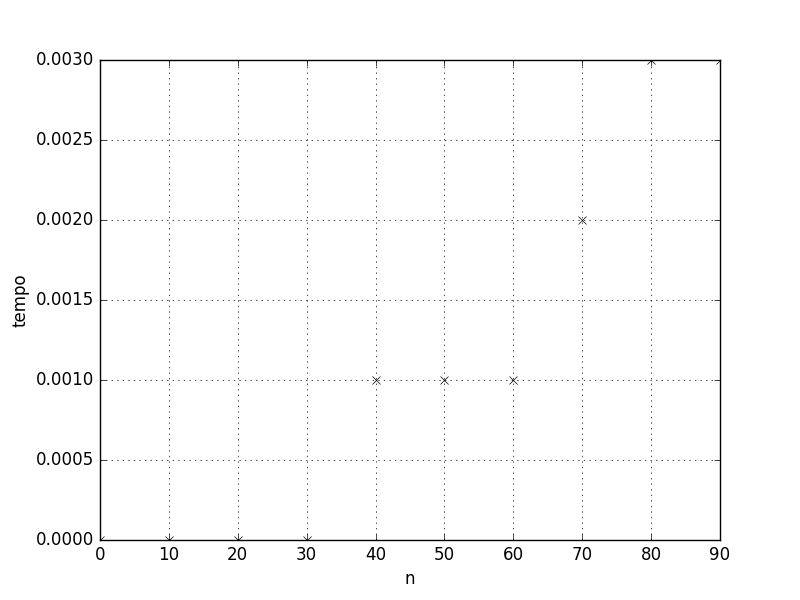
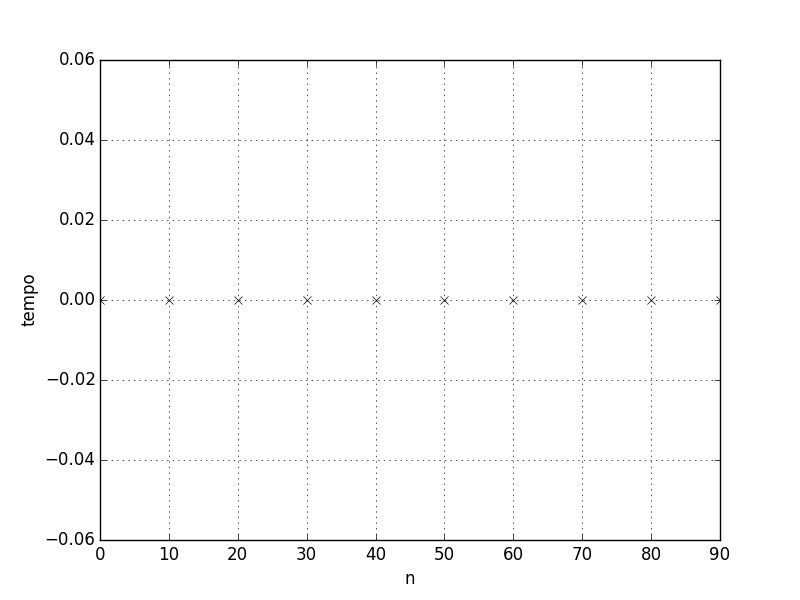
mudando funcao grafoCompleto() em Auxiliares.h

diff --git a/grafo_lista_adjacencia/main.cpp b/grafo_lista_adjacencia/main.cpp
@@ -207,7 +207,7 @@ void vizinhancaAberta(){
     int id;
     cout<<"Digite o id do no para verificar vizinhanca aberta: ";
     cin>>id;
-    vector<No*> nos = G->vizinhancaAberta(id, false);///ver pq nao da pra usar o default nessa caralha
+    vector<No*> nos = G->vizinhancaAberta(id);///ver pq nao da pra usar o default nessa caralha
 
     imprimeVizinhanca(nos);
 }
@@ -217,7 +217,7 @@ void vizinhancaFechada(){
     int id;
     cout<<"Digite o id do no para verificar vizinhanca fechada: ";
     cin>>id;
-    vector<No*> nos = G->vizinhancaFechada(id, true);///ver pq nao da pra usar o default nessa caralha
+    vector<No*> nos = G->vizinhancaFechada(id);///ver pq nao da pra usar o default nessa caralha
 
     imprimeVizinhanca(nos);
 }
@@ -307,23 +307,28 @@ u_int arvoreGeradoraMinima(u_int n){
 }
 
 u_int testarKruskal(u_int n){
+    Grafo *di=new Grafo();
 //    Grafo *g=new Grafo(), *arvMin=new Grafo();
 //    int tam;
 //    cout<<"\n\n\TESTE MUITOS NOS:\n\nnnumero de nos:"<<endl;
 //    cin>>tam;
 //    cout<<"Criando grafo..."<<endl;
-//    for(int i=1;i<=tam;i++){
-//        g->insereNo(i);
-//        arvMin->insereNo(i);
+
+    di=grafoCompleto(n);
+//    for(int i=1;i<=n;i++)
+//        di->insereNo(i);
+//
+//    for(int i=1;i<n;i++){
+//        for(int j=1;j<n;j++){
+//            if(i!=j)
+//                di->insereArcoID(i,j,i, false);
+//        }
 //    }
-//    for(int i=1;i<tam;i++){
-//        g->insereArcoID(i,i+1,i);
-//        g->insereArcoID(i+1,i,i);
-//    }
+
 //    cout<<"\n\nassim que apertar qualquer tecla kruskal comeca a rodar!"<<endl;
 //    system("pause");
 //    clock_t begin = clock();
-    Grafo* di = grafoCompleto(n+1);
+//    Grafo* di = grafoCompleto(n+1);
     u_int t;
     t = clock();
     vector<Arco*> arcosMin = di->Kruskal();
@@ -447,7 +452,8 @@ int main(){
 
 //    testarKruskalNaMao();
 //    arvoreGeradoraMinima();
-    analiseDesempenho(testarKruskal, 100, 10, 1, "Teste Kruskal", "teste_kruskal.csv");
+//    grafoCompleto(5)->imprime();
+    analiseDesempenho(testarKruskal, 1000, 100, 1, "Teste Kruskal", "teste_kruskal.csv");
     graficoPython("teste_kruskal.csv");
 
 ////////////////    analiseDesempenho(testarKruskal, 100, 10, 1, "Teste Kruskal", "teste_kruskal.csv");

diff --git a/grafo_lista_adjacencia/Auxiliares.h b/grafo_lista_adjacencia/Auxiliares.h
@@ -123,20 +123,36 @@ Grafo* criarGrafoEscadinha(){
 }
 
 Grafo* grafoCompleto(u_int n){
-    Grafo* G= new Grafo();
-    vector<No*> nos;
-    for(u_int i=0; i < n; i++)
-        nos.push_back(G->insereNo(i));
+    Grafo *di=new Grafo();
 
-    for (u_int i=0; i < n; i++){
-        for (u_int j=0; j < n; j++){
-            if( i != j )
-                G->insereArcoID(i, j, i*n+j, false);
-//                G->insereArco(nos[i], nos[j], i*n+j, false);
+    ///cria grafo completo na mao, o antigo nao esta funcionando
+    for(int i=1;i<=n;i++)
+        di->insereNo(i);
+
+    for(int i=1;i<=n;i++){
+        for(int j=1;j<=n;j++){
+            if(i!=j)
+                di->insereArcoID(i,j,i, false);
         }
     }
-    G->atualizaGrau();
-    return G;
+
+    di->atualizaGrau();
+
+    return di;
+
+//    Grafo* G= new Grafo();
+//    vector<No*> nos;
+//    for(u_int i=0; i < n; i++)
+//        nos.push_back(G->insereNo(i));
+//
+//    for (u_int i=0; i < n; i++){
+//        for (u_int j=0; j < n; j++){
+//            if( i != j )
+//                G->insereArcoID(i, j, i*n+j, false);
+////                G->insereArco(nos[i], nos[j], i*n+j, false);
+//        }
+//    }
+//    G->atualizaGrau();
 }
 
 Grafo* criarGrafoCompleto(){
